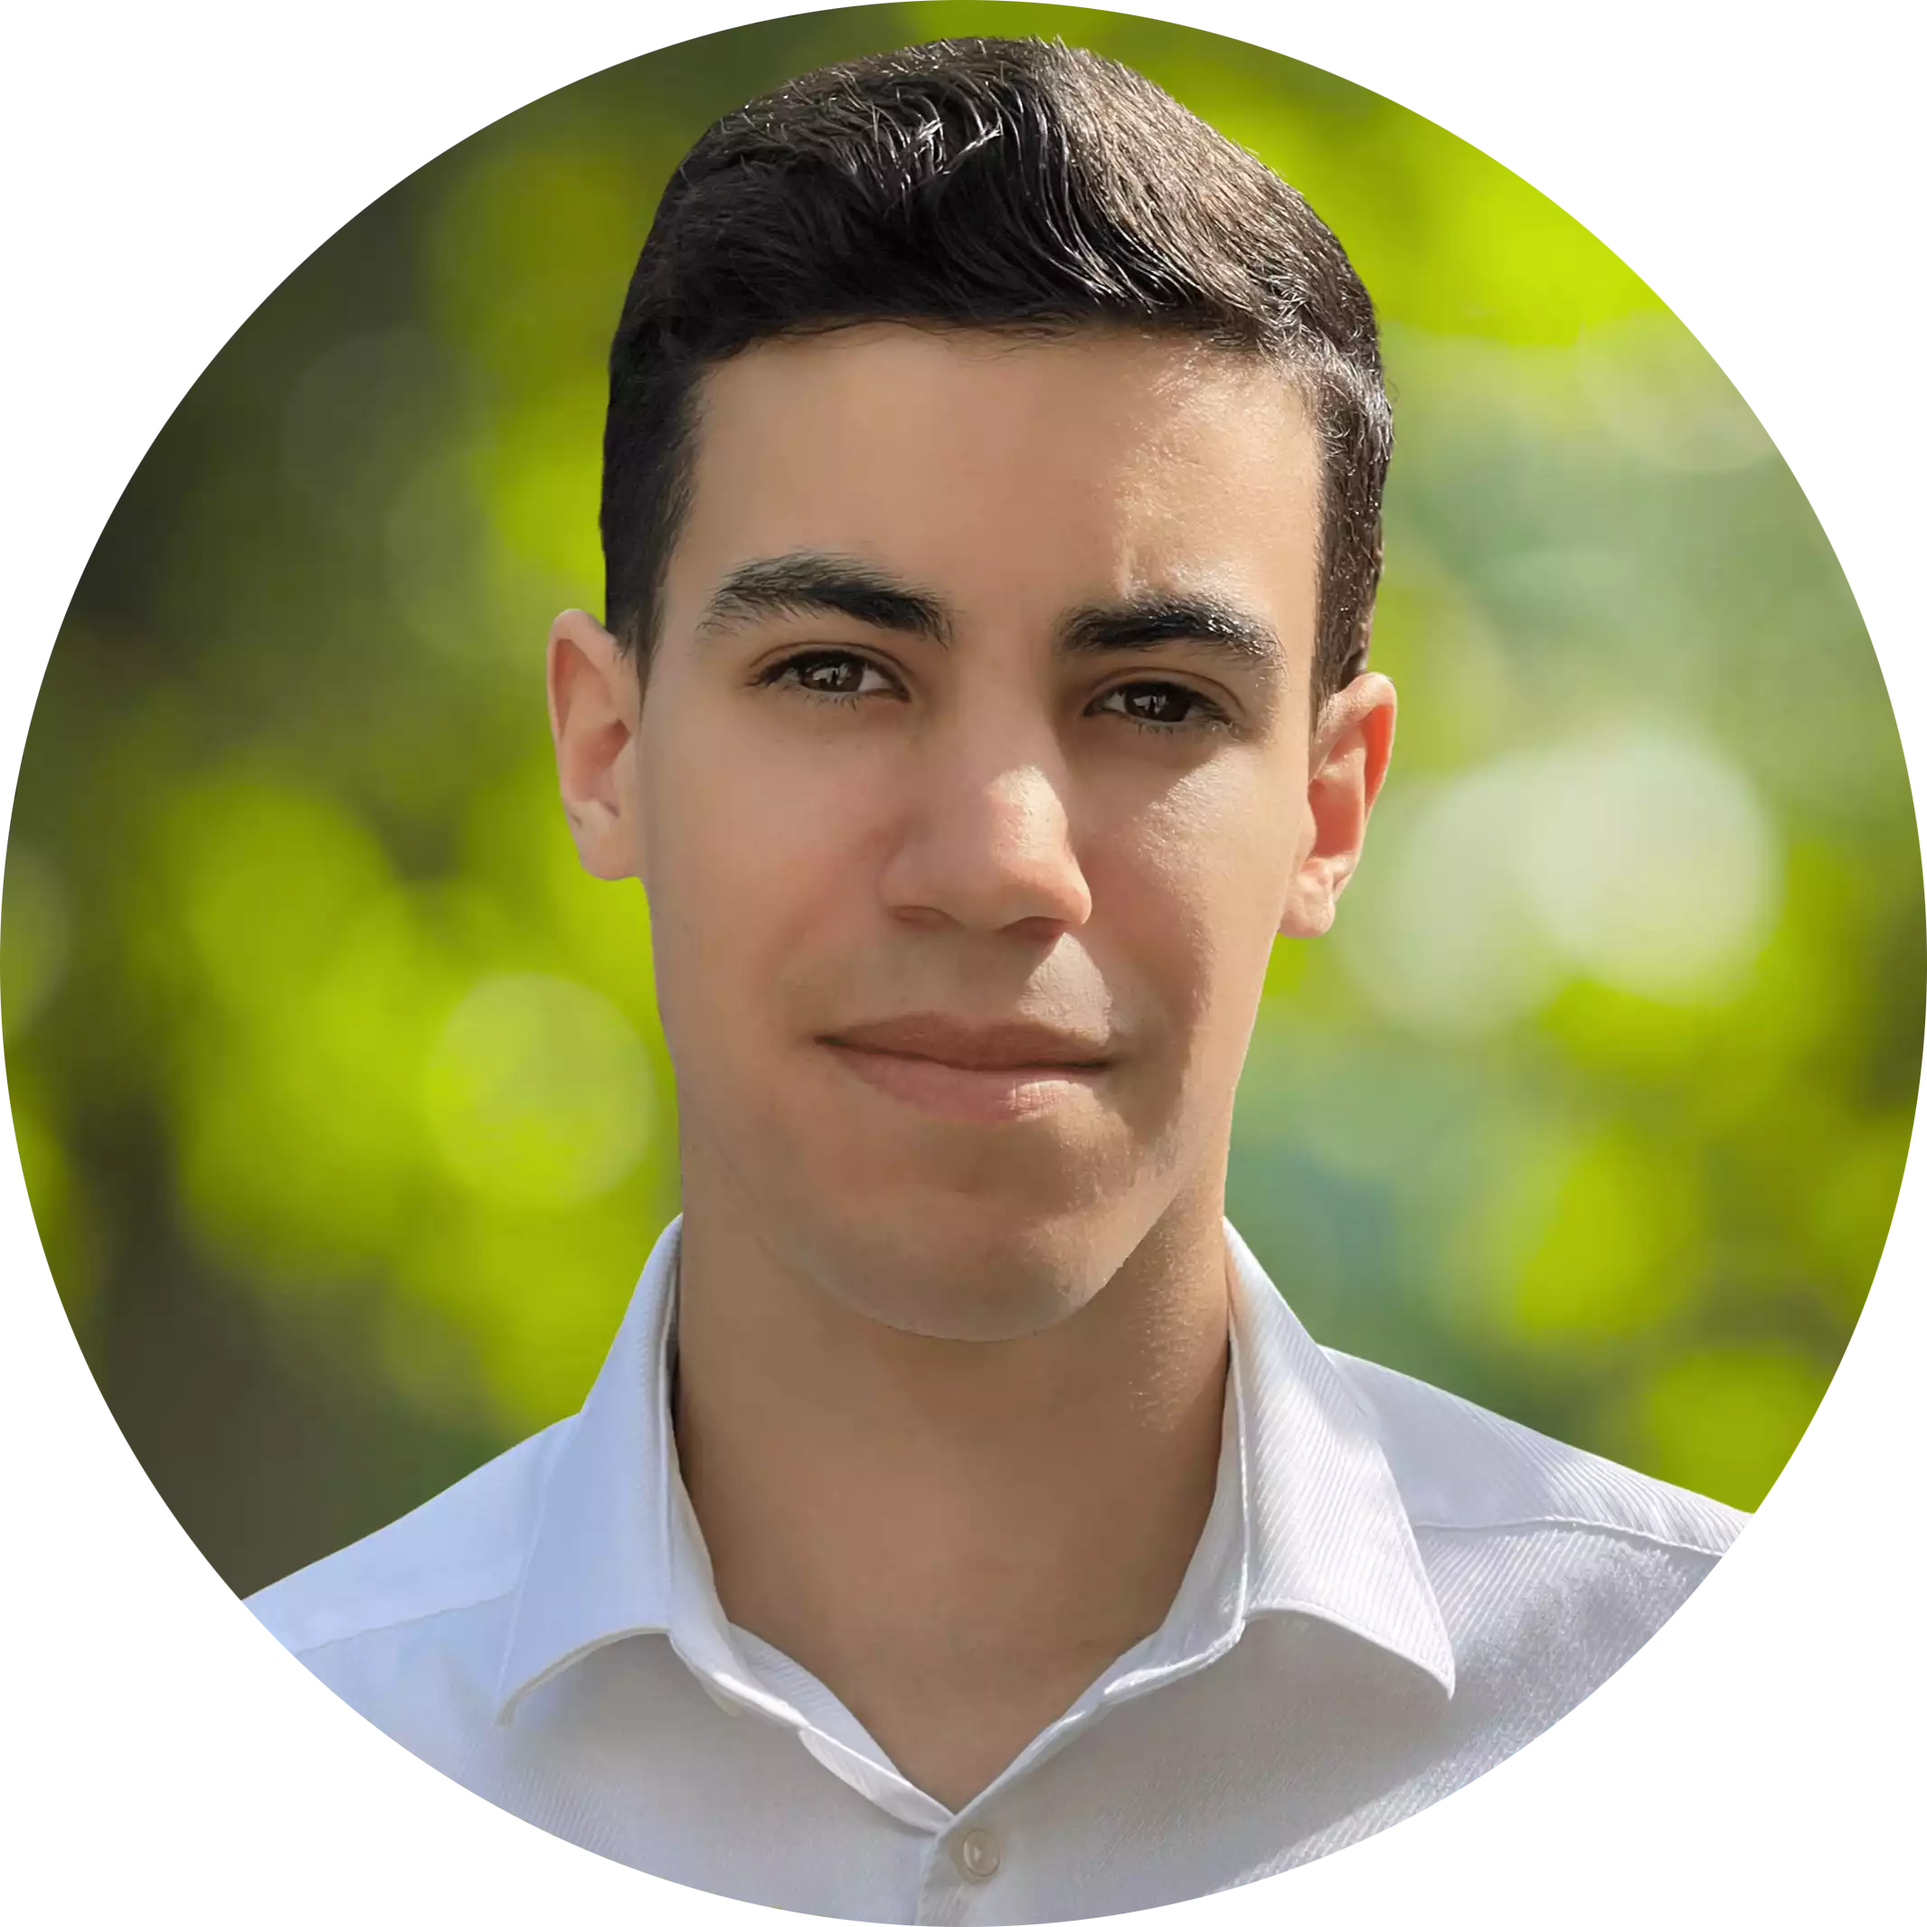
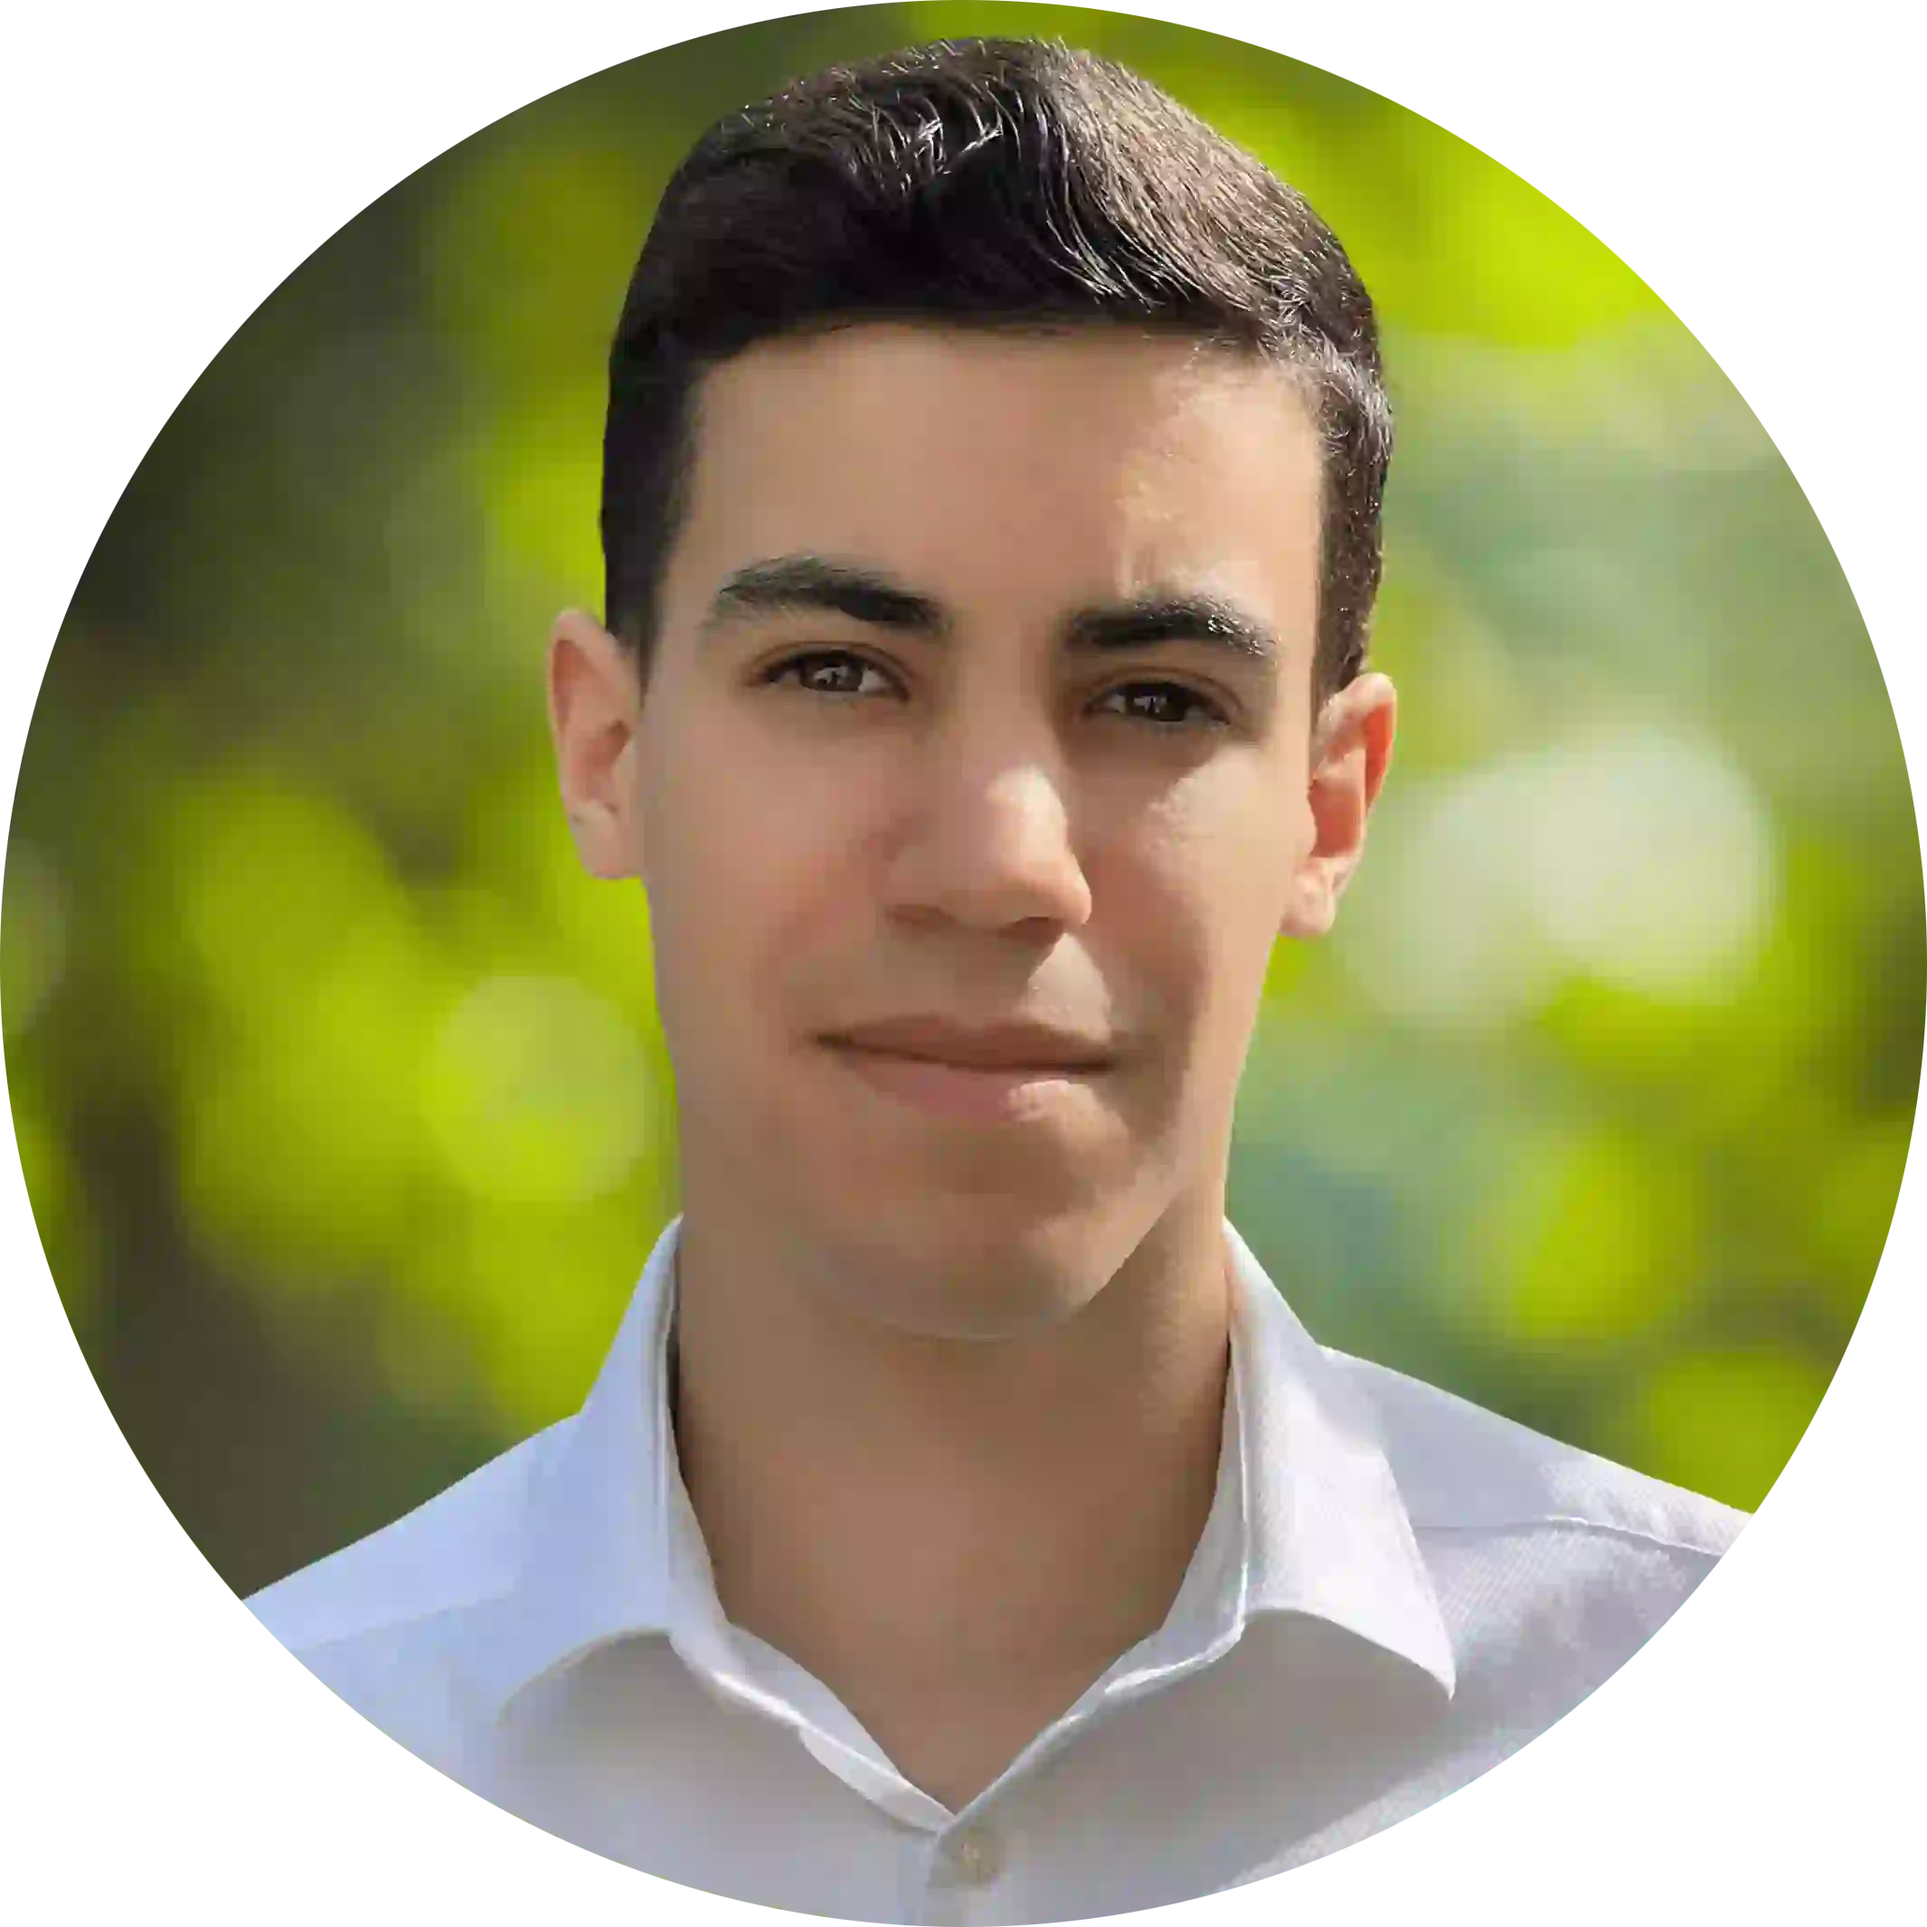
optimisation des images

diff --git a/vue-project/src/views/Home.vue b/vue-project/src/views/Home.vue
@@ -1,18 +1,17 @@
 <template>
     <nav class="fixed flex items-center justify-between w-screen h-24 text-center bg-black">
-        <img routerlink="/" class="hover:transition-opacity ml-8 duration-300 h-11 w-11 rounded-full hover:ring-[#00B15A] hover:ring-offset-2 hover:ring-offset-black hover:ring-2 hover:outline-offset-2" src="../assets/face.webp" alt="Photo de profil">
+        <img routerlink="/" class="hover:transition-opacity ml-8 duration-300 h-10 w-10 rounded-full hover:ring-[#00B15A] hover:ring-offset-2 hover:ring-offset-current hover:ring-2 hover:outline-offset-2" src="../assets/face.webp" alt="Photo de profil">
         <h1 class="text-xl text-white">Mathis CHOUFFOT</h1>
         <a href="https://www.linkedin.com/in/mathis-chouffot/">
-            <img class="hover:transition-opacity duration-300 min-h-full mr-8 h-9 w-9 rounded-md hover:ring-[#00B15A] hover:ring-offset-2 hover:ring-offset-black hover:ring-2 hover:outline-offset-2 " src="../assets/linkedin.svg" alt="Logo LinkedIn">
+            <img class="hover:transition-opacity duration-300 min-h-full mr-8 h-8 w-8 rounded-md hover:ring-[#00B15A] hover:ring-offset-2 hover:ring-offset-current hover:ring-2 hover:outline-offset-2 " src="../assets/linkedin.svg" alt="Logo LinkedIn">
         </a>
     </nav>
     <div class="flex flex-col items-center pt-52">
         <h2 class="text-3xl text-white mb-14">001. ABOUT ME</h2>
         <h3 class="w-1/2 text-xl leading-relaxed text-center text-white mb-28">Hey there! I'm <a>Mathis CHOUFFOT</a>, student at <a>Epitech Digital School</a>. I'm all about learning about and working on <a>digital transformation</a>. My school projects cover a wide range of digital topics, from <a>UX/UI</a> design to <a>developement</a> passing by <a>business</a>. Basically, I'm trying to figure out how digital can be used to transform the world.</h3>
     </div>
-    <h2 class="items-center justify-around text-3xl text-center text-white mb-14">002. MY PROJECTS</h2>
     <div class="flex flex-col items-center gap-12">
-        <div class="hover:transition-opacity duration-300 h-48 w-[50%] rounded-[34px] bg-[#0c0c0c] hover:ring-[#00B15A] hover:ring-offset-2 hover:ring-offset-black hover:ring-2 hover:outline-offset-2"></div>
+        <h2 class="items-center justify-around text-3xl text-center text-white mb-14">002. MY PROJECTS</h2>
         <div class="hover:transition-opacity duration-300 h-48 w-[50%] rounded-[34px] bg-[#0c0c0c] hover:ring-[#00B15A] hover:ring-offset-2 hover:ring-offset-black hover:ring-2 hover:outline-offset-2"></div>
         <div class="hover:transition-opacity duration-300 h-48 w-[50%] rounded-[34px] bg-[#0c0c0c] hover:ring-[#00B15A] hover:ring-offset-2 hover:ring-offset-black hover:ring-2 hover:outline-offset-2"></div>
     </div>
